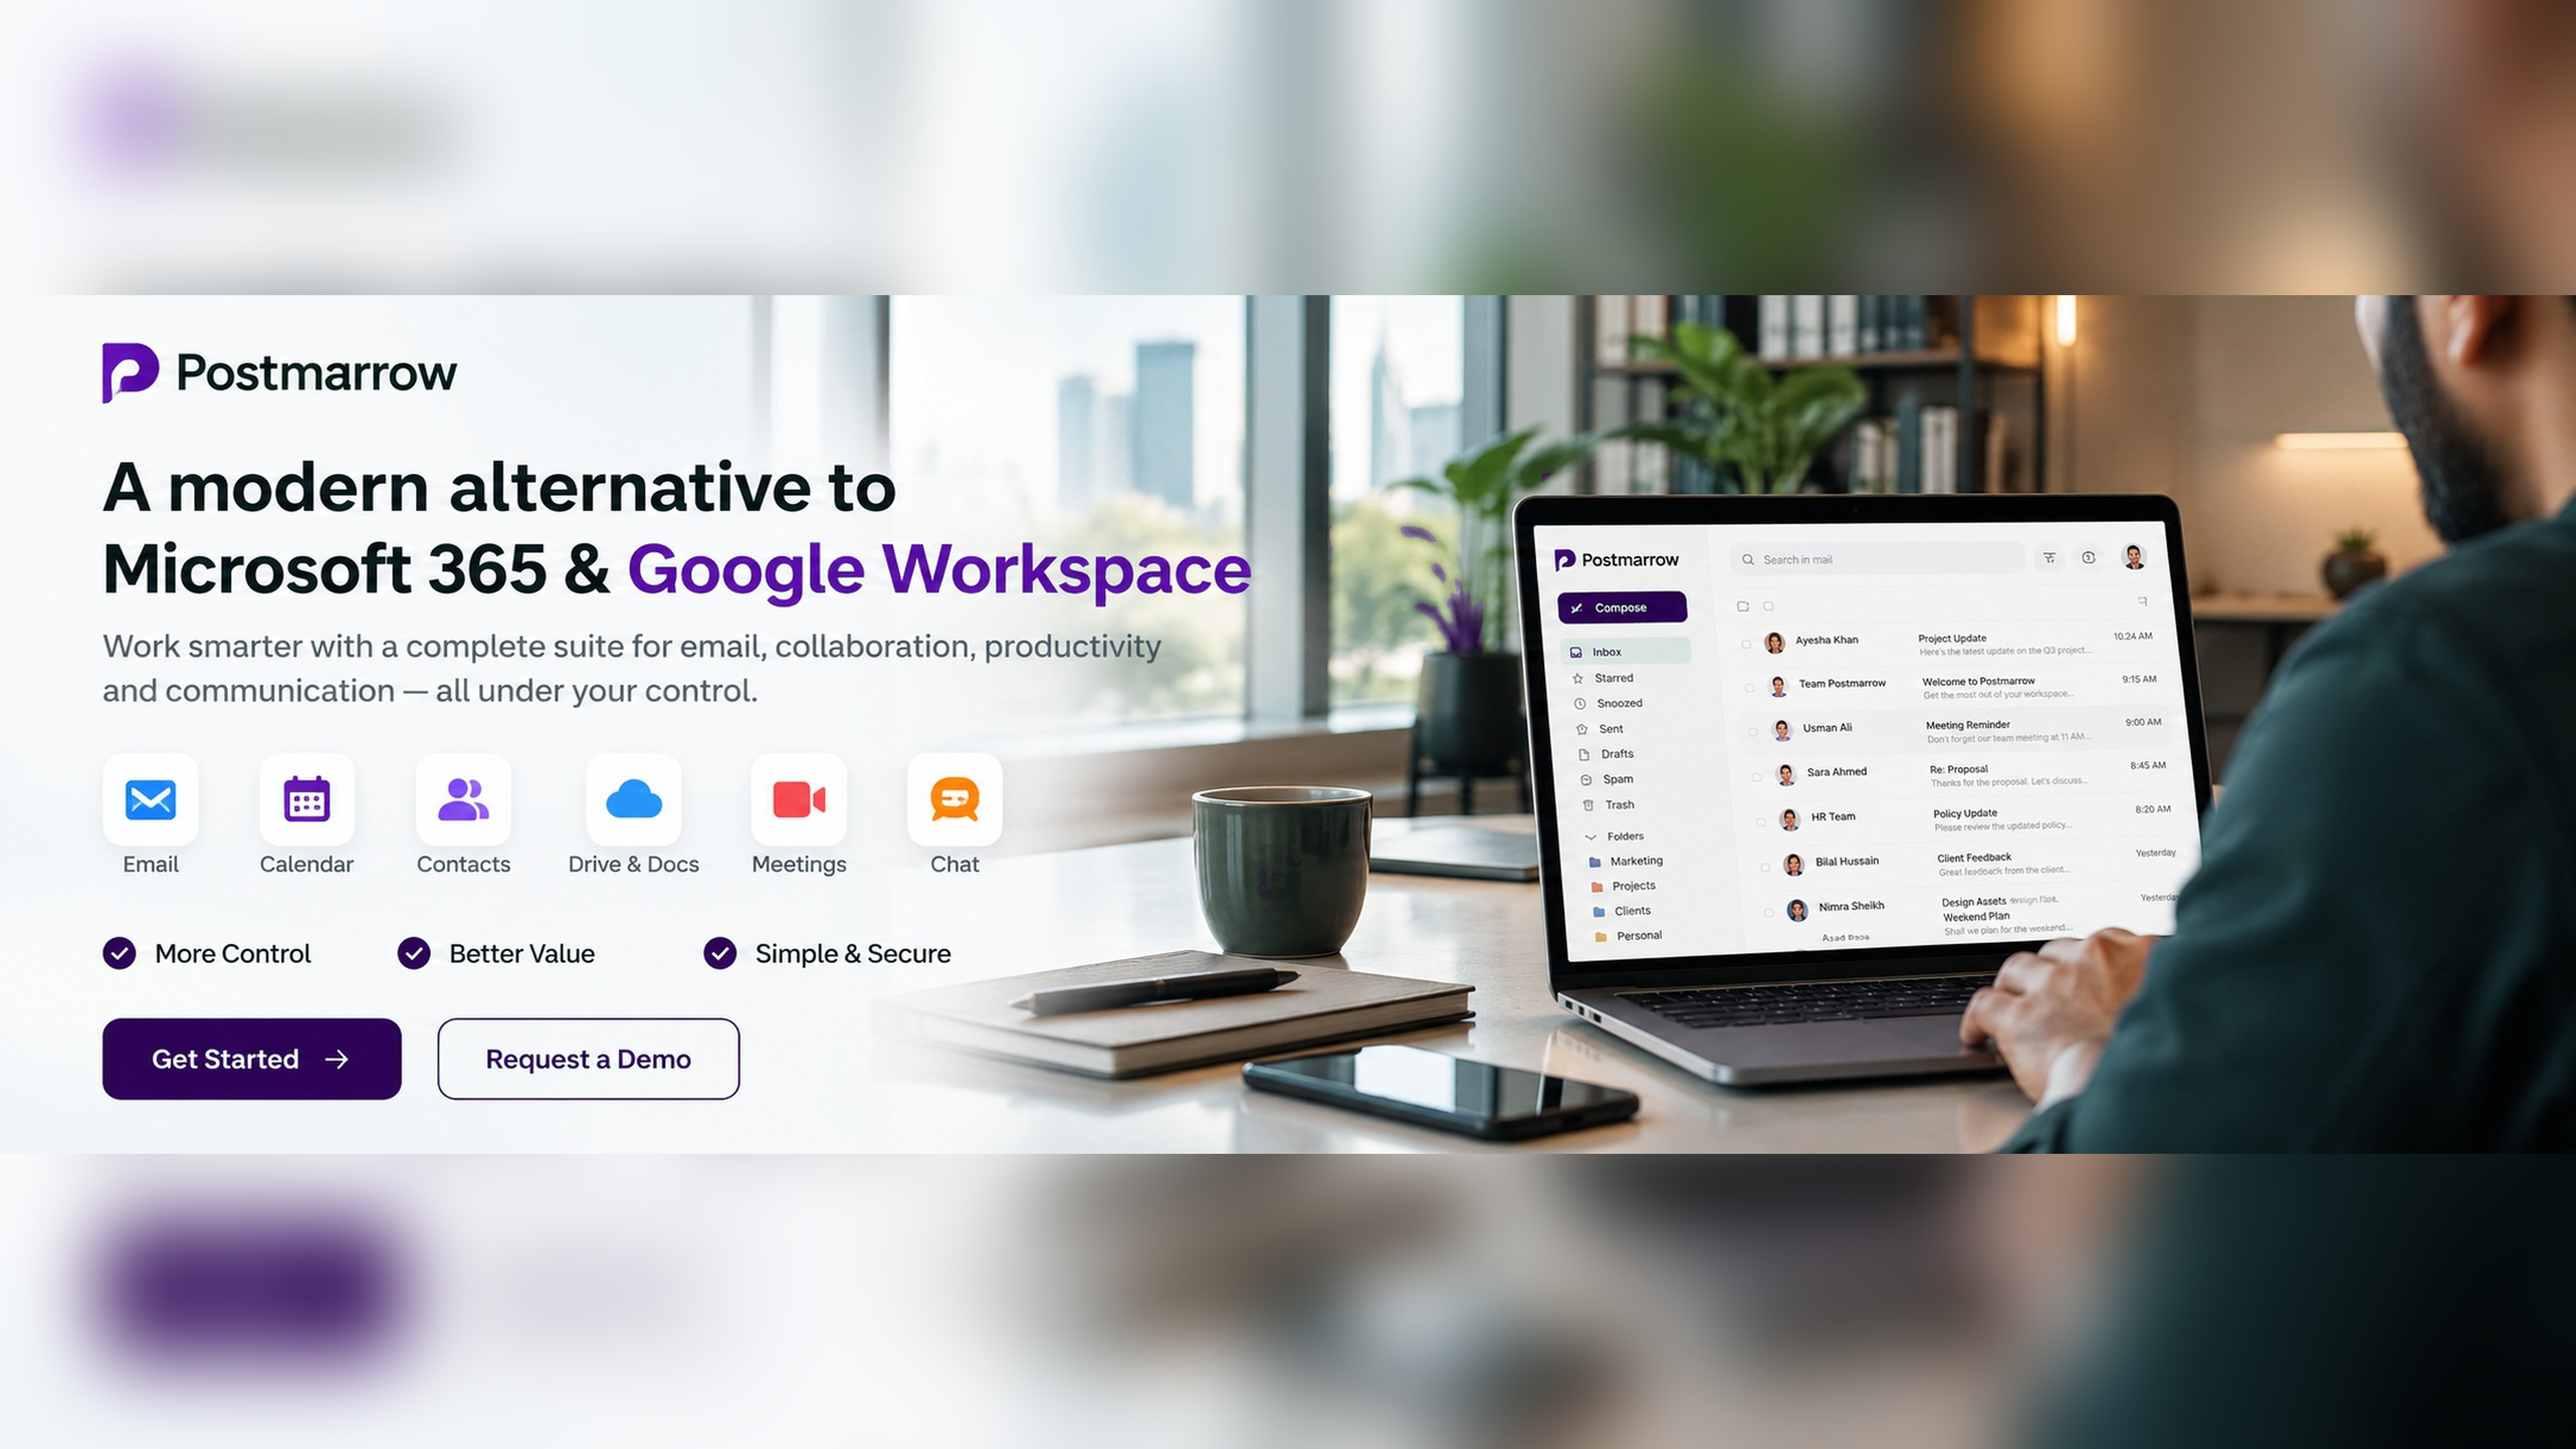
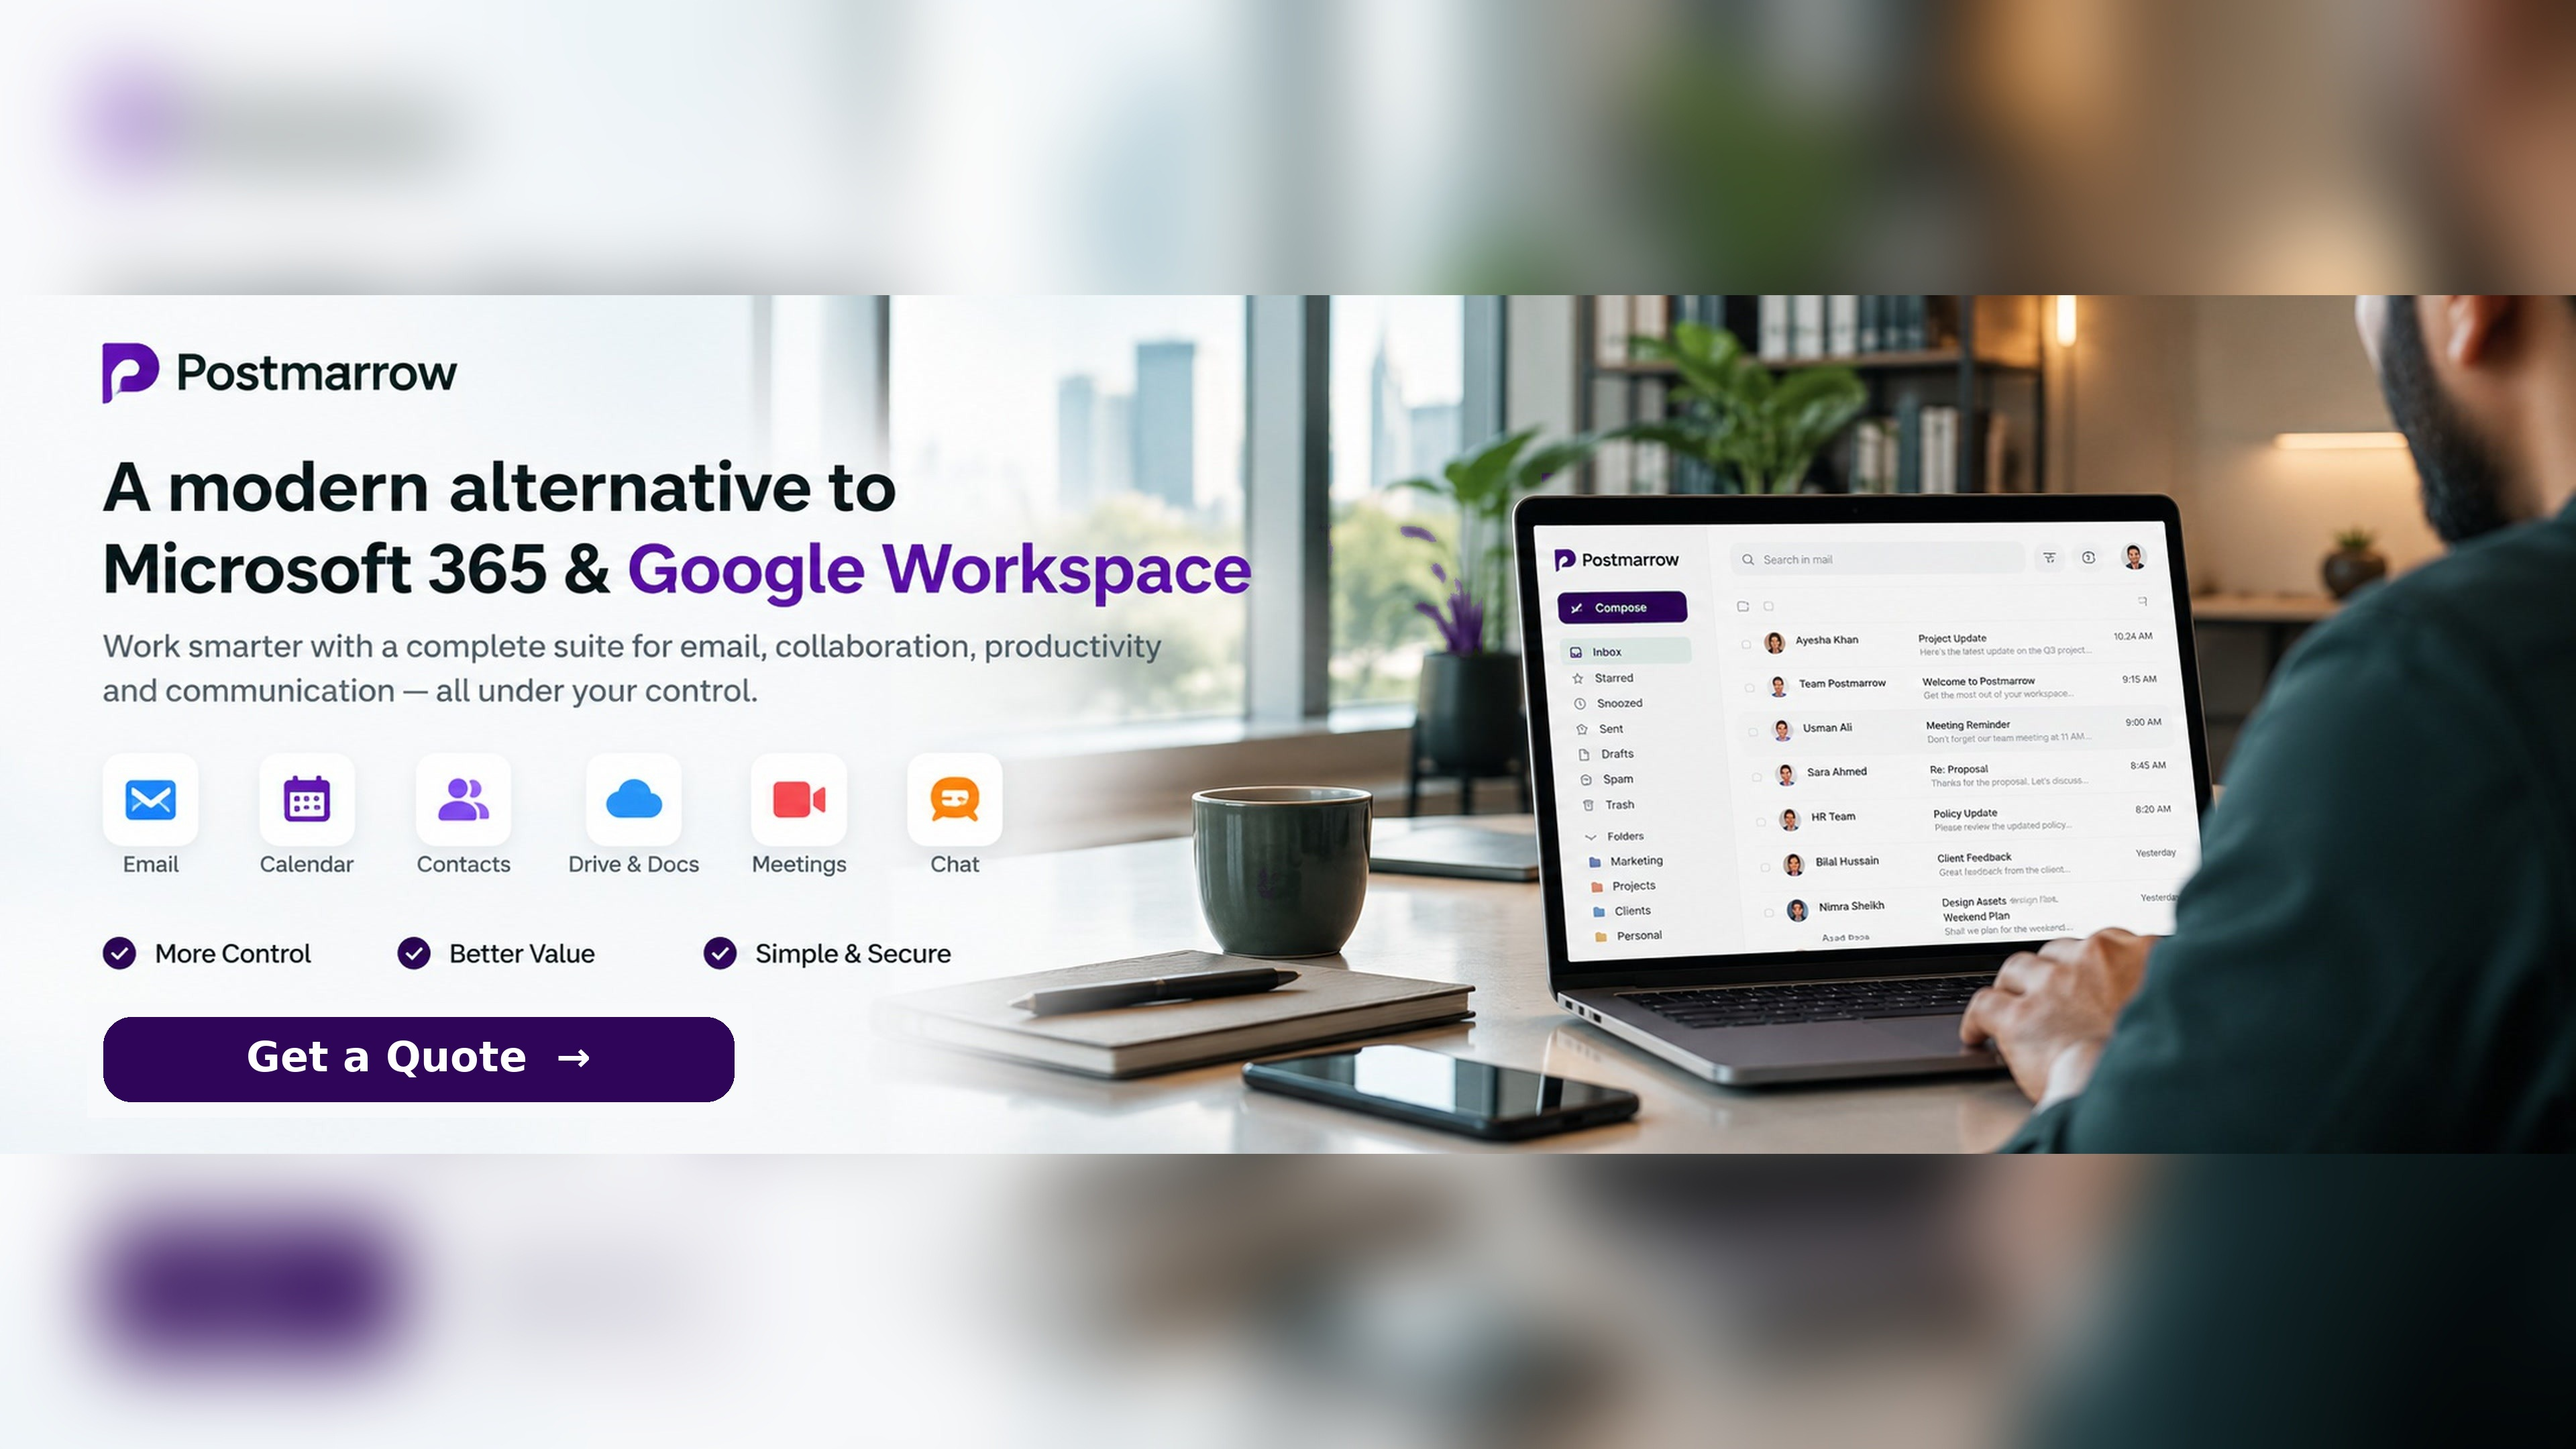
Post Marrow: paint Get a Quote button into poster in place of Get Started/Request a Demo, add clickable hotspot over it

Changed region(s): [[0.0625, 0.6824, 0.3125, 0.7755]]

diff --git a/index.html b/index.html
@@ -1017,9 +1017,7 @@ body{background:#04070e!important;color:#f2f6fd}
     <img class="bg" src="videos/postmarrow-poster-fullbg.jpg" alt="Post Marrow">
     <div class="shade"></div><div class="shade2"></div>
     <div class="p-count"><b>04</b> / 09</div>
-    <div class="stack-inner">
-      <div class="p-ctas"><a class="p-cta" href="/contact/">Get a Quote <i class="fa-solid fa-arrow-right"></i></a></div>
-    </div>
+    <a class="pm-hotspot" href="/contact/" aria-label="Get a Quote" title="Get a Quote"></a>
   </article>
 
   <article class="stack-card" data-title="Microsoft 365">
@@ -1639,6 +1637,50 @@ const CHARTS={"mdm": {"line": "M0,95 C33,95 67,82 100,82 C133,82 167,68 200,68 C
     if(t){ setTimeout(function(){ t.scrollIntoView(); history.replaceState(null, '', location.pathname + location.search); }, 50); }
     else { history.replaceState(null, '', location.pathname + location.search); }
   }
+})();
+</script>
+<style>#products .stack-card[data-title="Post Marrow"] .pm-hotspot{position:absolute;z-index:4;display:none;cursor:pointer;background:transparent;-webkit-tap-highlight-color:transparent}</style>
+<script>
+/* Post Marrow: transparent hotspot over the Get a Quote button painted inside the poster image.
+   The poster is shown with object-fit:cover, so the button's screen position shifts with crop/scale;
+   recompute it from the rendered image rect on load, resize and scroll. Hide it when the button
+   is mostly cropped out of view. */
+(function(){
+  var card = document.querySelector('#products .stack-card[data-title="Post Marrow"]');
+  if(!card) return;
+  var img = card.querySelector('img.bg');
+  var hs = card.querySelector('.pm-hotspot');
+  if(!img || !hs) return;
+  /* Button rect in the poster image, as fractions of the image (measured from the file). */
+  var bx0 = 154/3840, bx1 = 1094/3840, by0 = 1516/2160, by1 = 1642/2160;
+  function place(){
+    if(!img.naturalWidth) return;
+    var cr = card.getBoundingClientRect();
+    var ir = img.getBoundingClientRect();
+    var scale = cr.width / (card.offsetWidth || cr.width);
+    if(!scale) return;
+    var s = Math.max(ir.width / img.naturalWidth, ir.height / img.naturalHeight);
+    var dw = img.naturalWidth * s, dh = img.naturalHeight * s;
+    var ox = ir.left + (ir.width - dw) / 2, oy = ir.top + (ir.height - dh) / 2;
+    var left = ox + bx0 * dw, top = oy + by0 * dh;
+    var w = (bx1 - bx0) * dw, h = (by1 - by0) * dh;
+    /* Visible fraction of the button inside the card. */
+    var vx0 = Math.max(left, cr.left), vx1 = Math.min(left + w, cr.right);
+    var vy0 = Math.max(top, cr.top), vy1 = Math.min(top + h, cr.bottom);
+    var visW = Math.max(0, vx1 - vx0) / w, visH = Math.max(0, vy1 - vy0) / h;
+    if(visW < 0.5 || visH < 0.5){ hs.style.display = 'none'; return; }
+    hs.style.display = 'block';
+    hs.style.left = ((left - cr.left) / scale) + 'px';
+    hs.style.top = ((top - cr.top) / scale) + 'px';
+    hs.style.width = (w / scale) + 'px';
+    hs.style.height = (h / scale) + 'px';
+  }
+  var ticking = false;
+  function req(){ if(ticking) return; ticking = true; requestAnimationFrame(function(){ ticking = false; place(); }); }
+  if(img.complete){ place(); } else { img.addEventListener('load', place); }
+  window.addEventListener('resize', req);
+  window.addEventListener('scroll', req, {passive:true});
+  setTimeout(place, 500);
 })();
 </script>
 </body>
